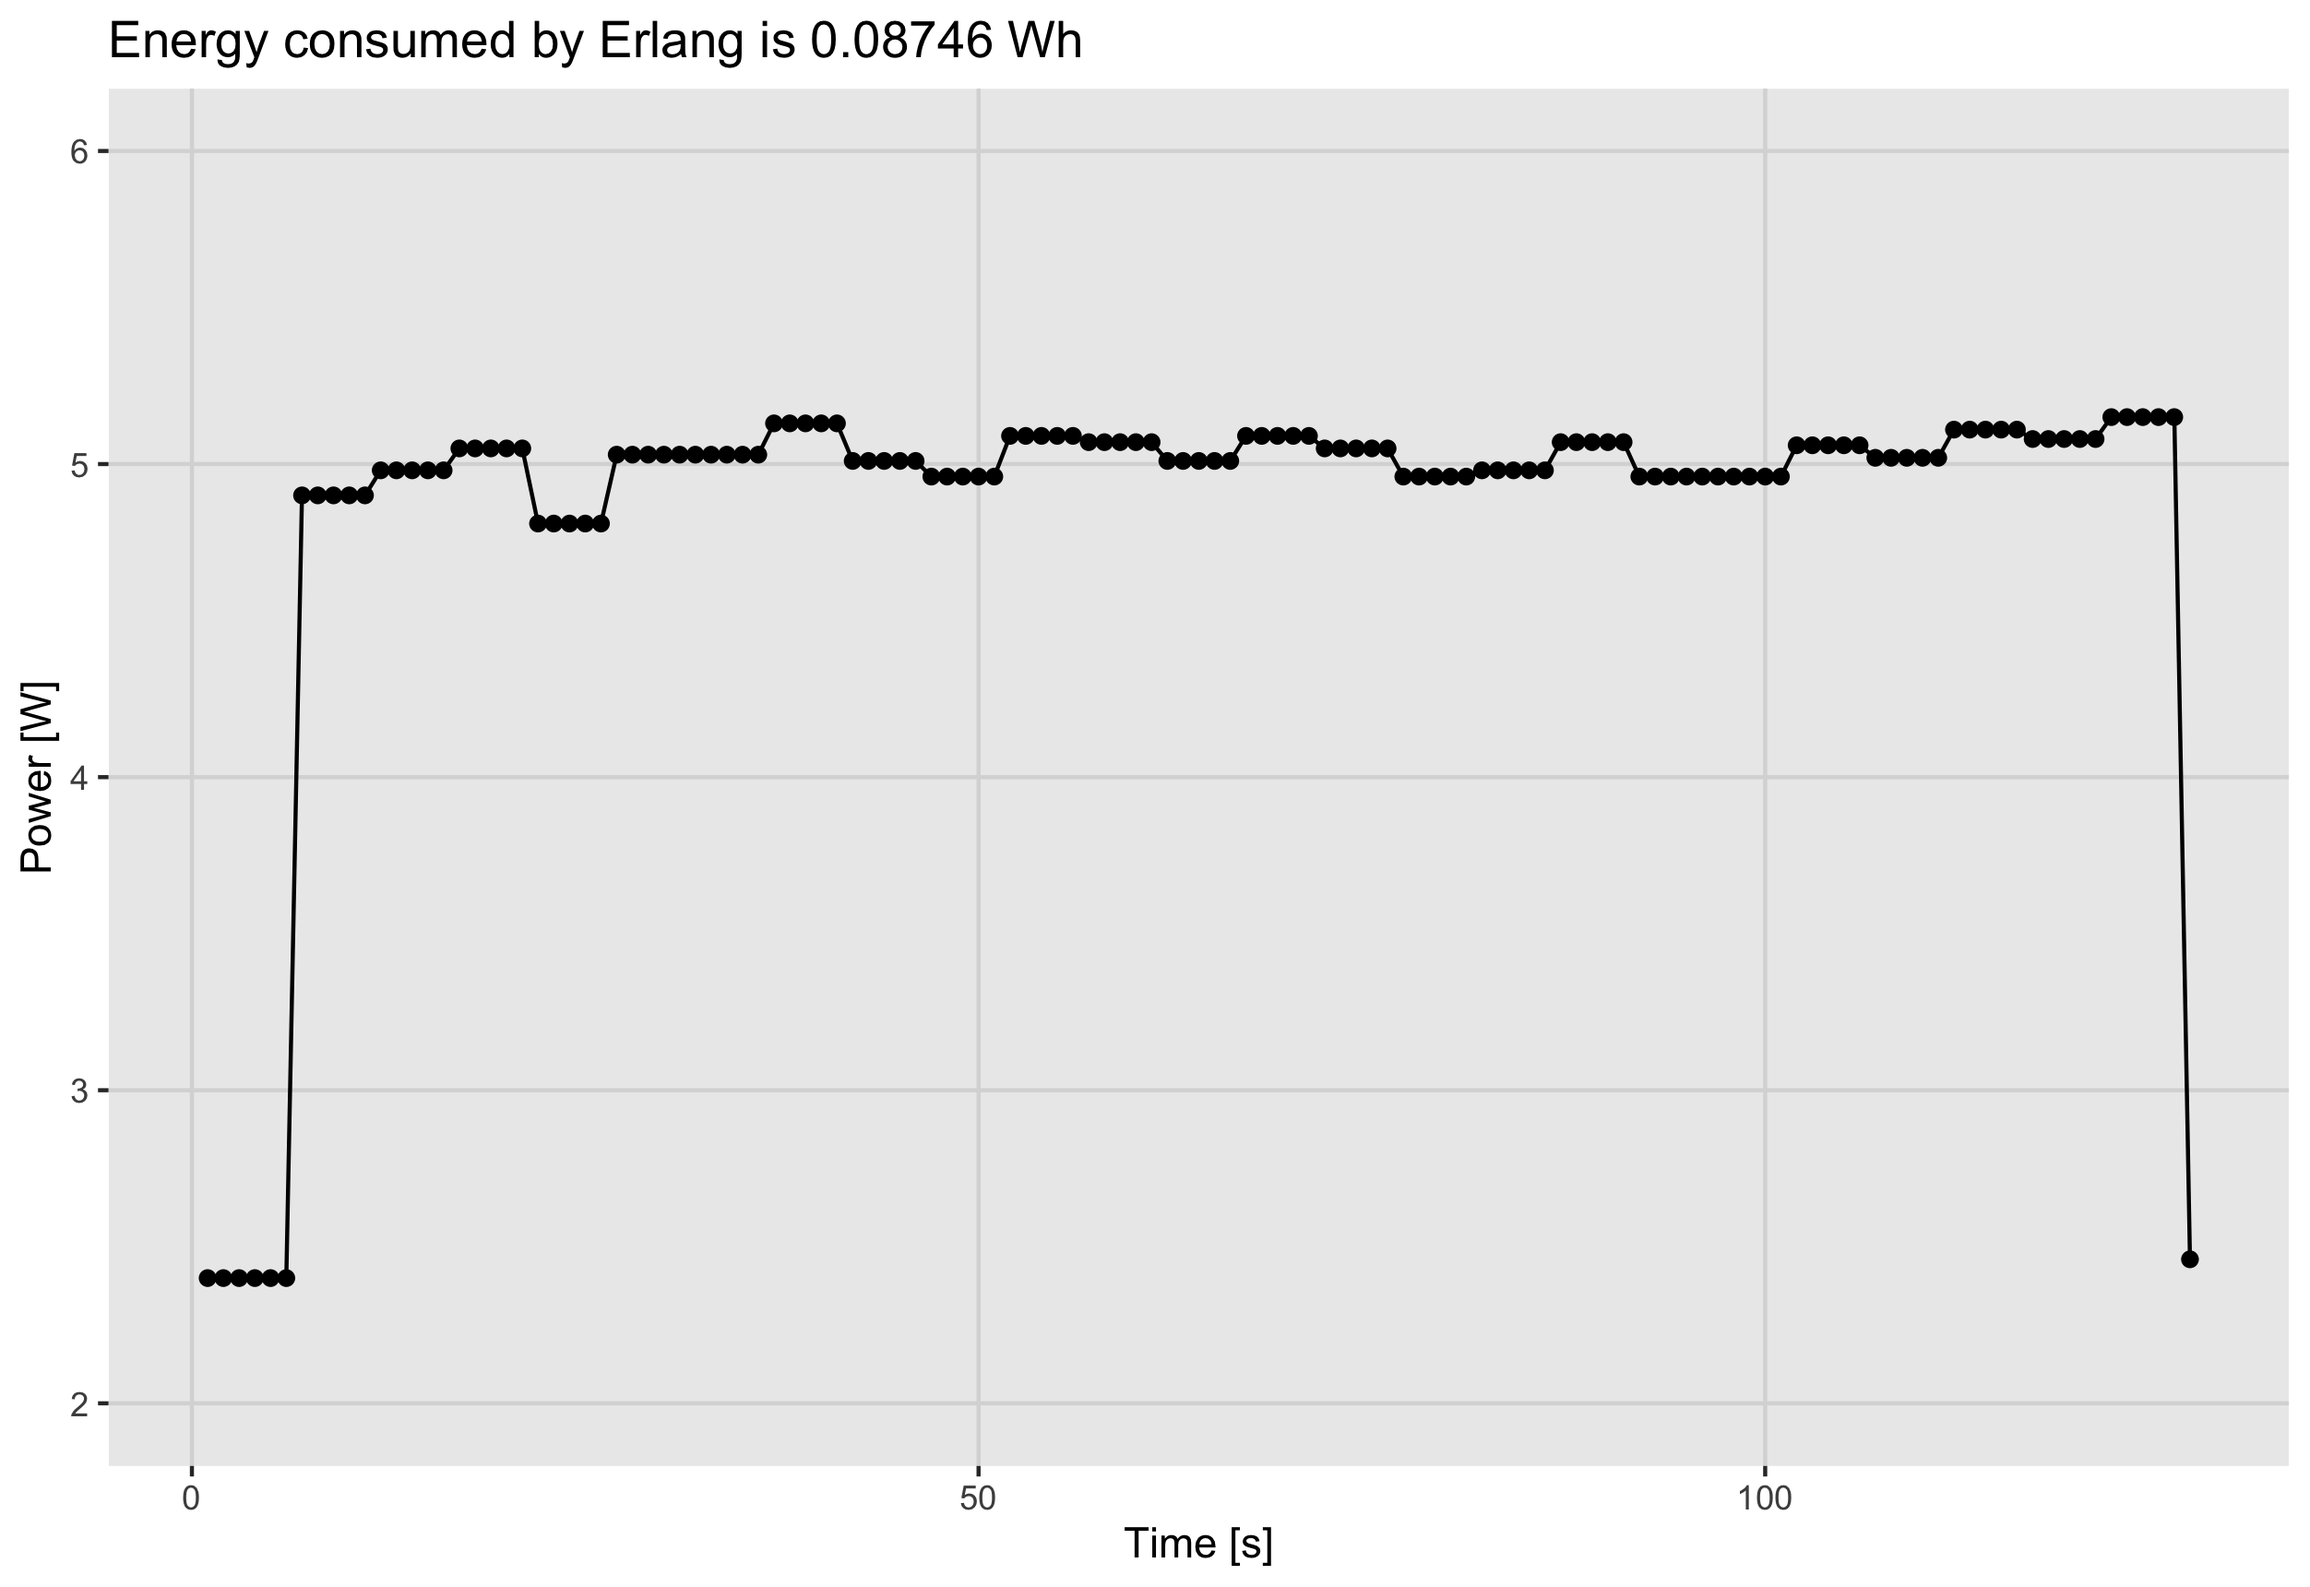
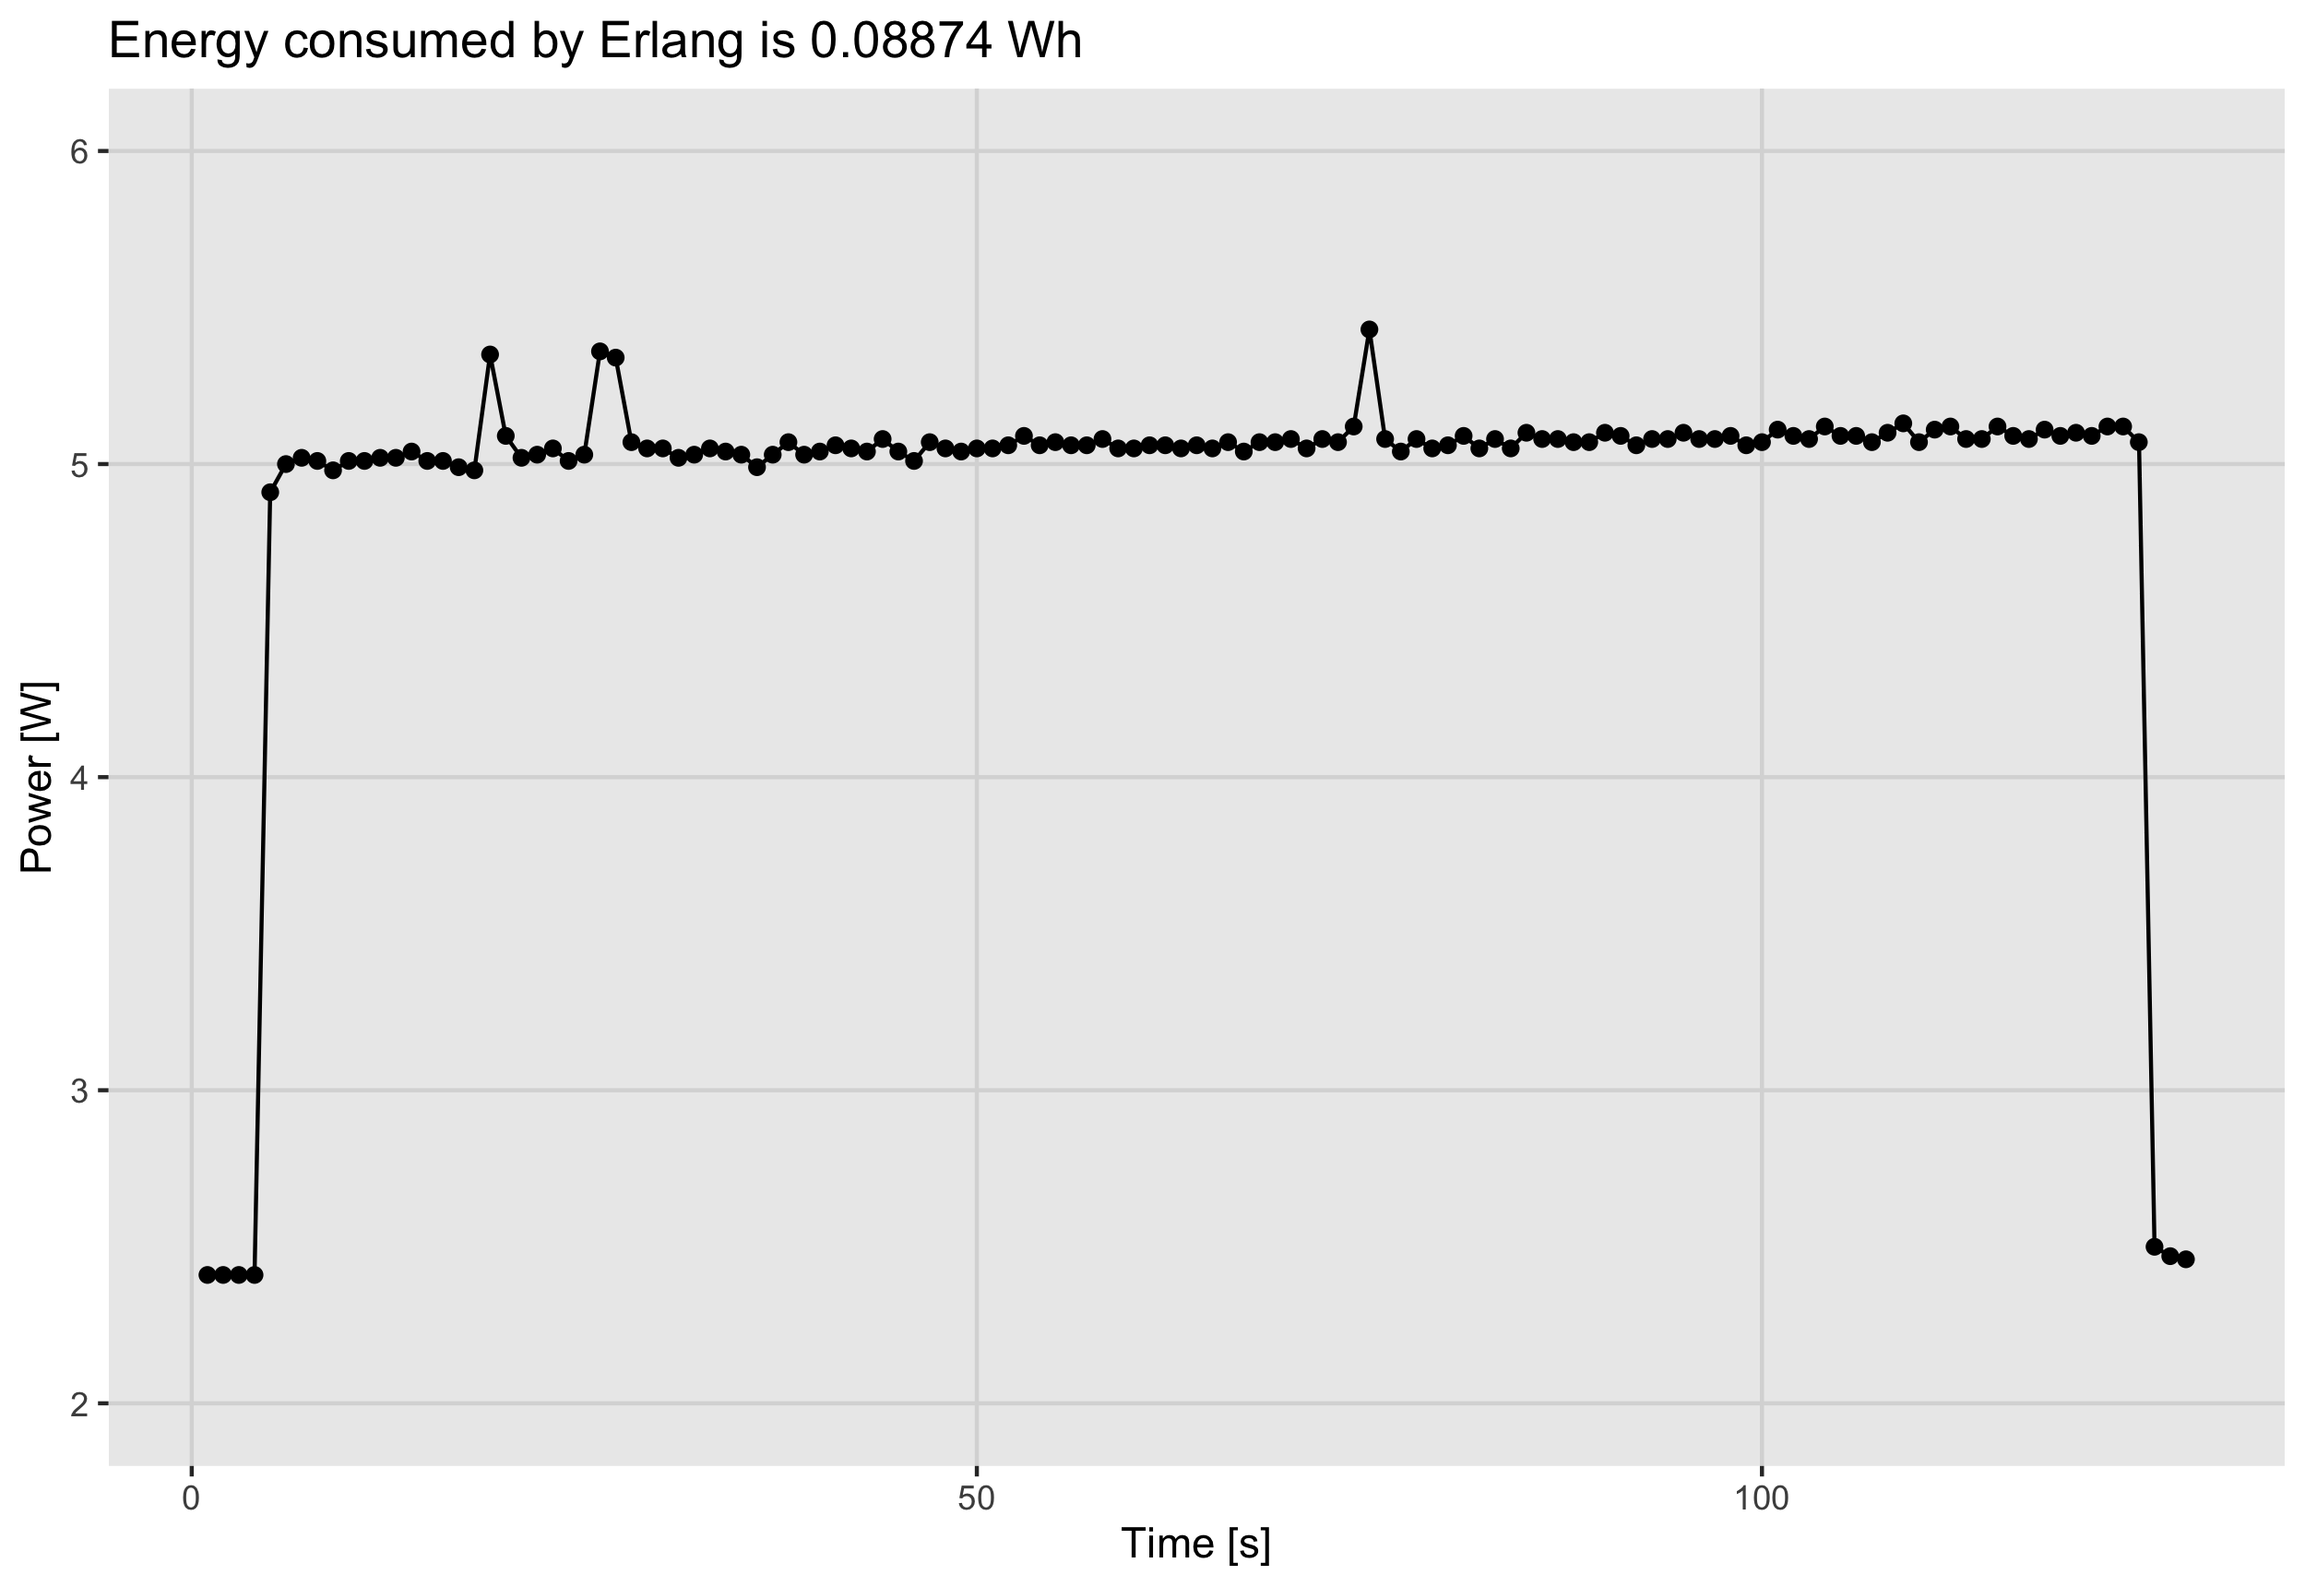
Update results

diff --git a/slides.md b/slides.md
@@ -155,15 +155,17 @@ Response:
 .scale45[![Erlang results](images/results/Erlang.png)]
 .scale45[![NodeJS results](images/results/NodeJS.png)]
 .scale45[![Python results](images/results/Python.png)]
+.scale45[![Ruby results](images/results/Ruby.png)]
 
 ---
 # Some of the results (2)
 
 |Programming language  | Energy consumed [Wh] |
 |:---|:---|
-| NodeJS | 0.01238 |
-| Python | 0.01875 |
-| Erlang | 0.08746 |
+| NodeJS | 0.01414 |
+| Python | 0.01946 |
+| Erlang | 0.08874 |
+| Ruby   | 0.11621 |
 
 ---
 # Which is the most efficient one?
